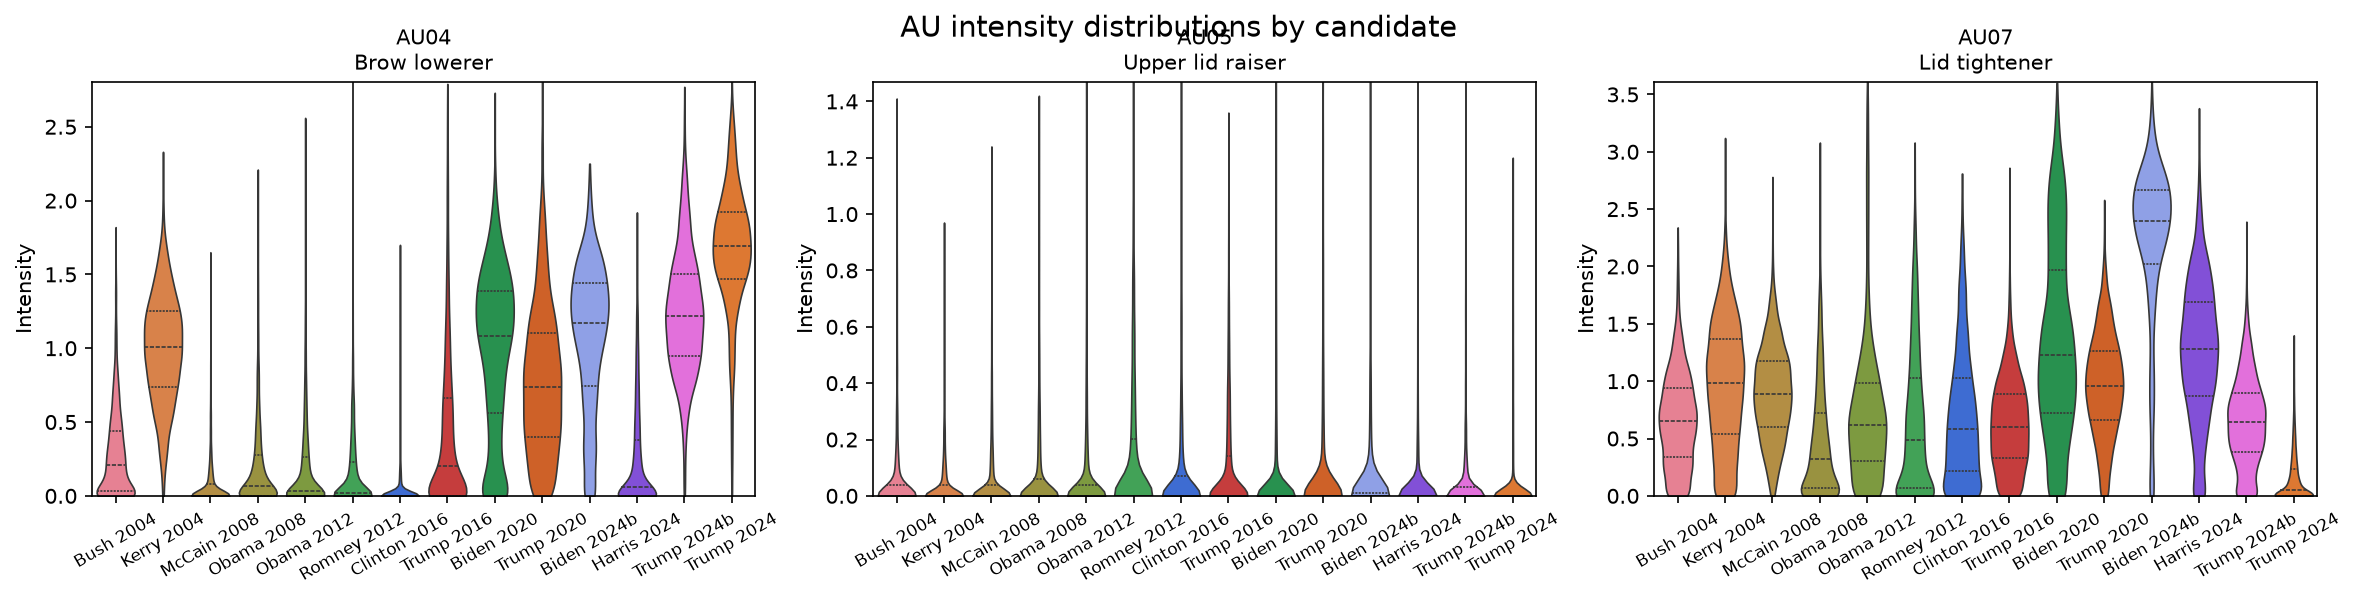
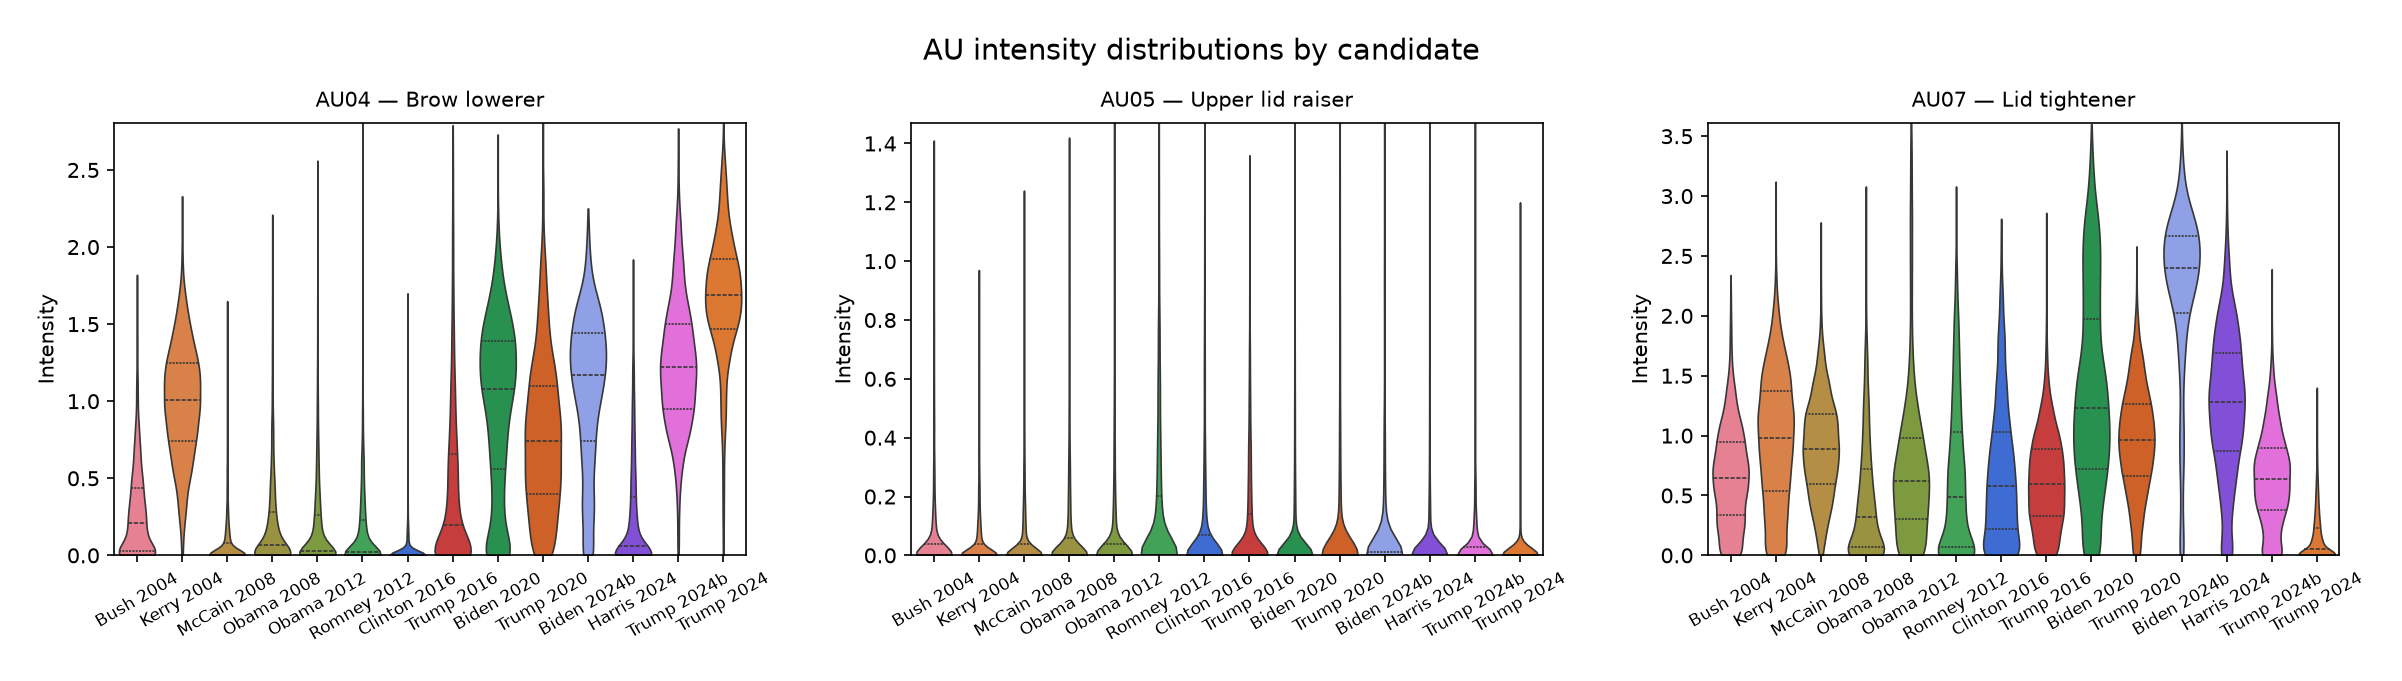
charttttt

diff --git a/plot_au_comparison.py b/plot_au_comparison.py
@@ -170,11 +170,106 @@ def build_violin_long_frame(
 
 
 def au_panel_label(au: str) -> str:
+    # Single-line titles avoid colliding with the figure title.
     if au in ANGER_LABELS:
-        return f"{au}\n{ANGER_LABELS[au]}"
+        return f"{au} — {ANGER_LABELS[au]}"
     if au in EXTRA_LABELS:
-        return f"{au}\n{EXTRA_LABELS[au]}"
+        return f"{au} — {EXTRA_LABELS[au]}"
     return au
+
+
+def build_au_summary_table(
+    frame_data: dict[str, pd.DataFrame],
+    aus: tuple[str, ...] = ANGER_AUS,
+) -> pd.DataFrame:
+    """Mean / SD / n frames for each candidate × AU (spreadsheet-ready)."""
+    rows: list[dict[str, object]] = []
+    for label, df in frame_data.items():
+        row: dict[str, object] = {"candidate": label, "n_frames": len(df)}
+        for au in aus:
+            col = f"{au}_r"
+            if col not in df.columns:
+                row[f"{au}_mean"] = float("nan")
+                row[f"{au}_sd"] = float("nan")
+                continue
+            series = df[col]
+            row[f"{au}_mean"] = float(series.mean())
+            row[f"{au}_sd"] = float(series.std(ddof=1)) if len(series) > 1 else 0.0
+        rows.append(row)
+    return pd.DataFrame.from_records(rows)
+
+
+def export_au_spreadsheet(summary: pd.DataFrame, output_path: Path) -> Path:
+    """Write AU4/5/7 summary as .xlsx (falls back to .csv if openpyxl missing)."""
+    output_path.parent.mkdir(parents=True, exist_ok=True)
+    try:
+        summary.to_excel(output_path, index=False, sheet_name="AU4_5_7")
+        return output_path
+    except ImportError:
+        csv_path = output_path.with_suffix(".csv")
+        summary.to_csv(csv_path, index=False)
+        return csv_path
+
+
+def plot_au_summary_table(summary: pd.DataFrame, output_path: Path) -> None:
+    """Render AU4/5/7 means (± SD) as a table image."""
+    display = pd.DataFrame(
+        {
+            "Candidate": summary["candidate"],
+            "n": summary["n_frames"].map(lambda n: f"{int(n):,}"),
+            "AU04": [
+                f"{m:.3f} ± {s:.3f}"
+                for m, s in zip(summary["AU04_mean"], summary["AU04_sd"])
+            ],
+            "AU05": [
+                f"{m:.3f} ± {s:.3f}"
+                for m, s in zip(summary["AU05_mean"], summary["AU05_sd"])
+            ],
+            "AU07": [
+                f"{m:.3f} ± {s:.3f}"
+                for m, s in zip(summary["AU07_mean"], summary["AU07_sd"])
+            ],
+        }
+    )
+
+    n_rows = len(display)
+    fig_h = max(3.2, 0.42 * n_rows + 1.4)
+    fig, ax = plt.subplots(figsize=(10.5, fig_h))
+    ax.axis("off")
+    ax.set_title(
+        "Mean AU intensity (± SD) — AU04 / AU05 / AU07",
+        fontsize=13,
+        pad=12,
+        fontweight="bold",
+    )
+
+    table = ax.table(
+        cellText=display.values.tolist(),
+        colLabels=list(display.columns),
+        loc="center",
+        cellLoc="center",
+        colLoc="center",
+    )
+    table.auto_set_font_size(False)
+    table.set_fontsize(9)
+    table.scale(1.0, 1.45)
+
+    for (row, col), cell in table.get_celld().items():
+        cell.set_edgecolor("#d4d4d8")
+        cell.set_linewidth(0.6)
+        if row == 0:
+            cell.set_facecolor("#27272a")
+            cell.set_text_props(color="white", fontweight="bold")
+            cell.set_height(0.08)
+        else:
+            cell.set_facecolor("#fafafa" if row % 2 else "white")
+        if col == 0:
+            cell.set_text_props(ha="left")
+            cell.PAD = 0.04
+
+    output_path.parent.mkdir(parents=True, exist_ok=True)
+    fig.savefig(output_path, dpi=180, bbox_inches="tight", pad_inches=0.25)
+    plt.close(fig)
 
 
 def plot_violins(
@@ -191,7 +286,12 @@ def plot_violins(
 
     ncols = min(3, len(aus))
     nrows = int(np.ceil(len(aus) / ncols))
-    fig, axes = plt.subplots(nrows, ncols, figsize=(5.2 * ncols, 3.8 * nrows), constrained_layout=True)
+    fig, axes = plt.subplots(
+        nrows,
+        ncols,
+        figsize=(5.2 * ncols, 4.2 * nrows),
+        layout="constrained",
+    )
     axes_flat = np.atleast_1d(axes).flatten()
 
     for ax, au in zip(axes_flat, aus):
@@ -209,7 +309,7 @@ def plot_violins(
             ax=ax,
             legend=False,
         )
-        ax.set_title(au_panel_label(au), fontsize=10)
+        ax.set_title(au_panel_label(au), fontsize=10, pad=8)
         ax.set_xlabel("")
         ax.set_ylabel("Intensity")
         ax.set_ylim(0, min(5.0, panel["intensity"].quantile(0.995) * 1.15 + 0.1))
@@ -218,9 +318,10 @@ def plot_violins(
     for ax in axes_flat[len(aus) :]:
         ax.axis("off")
 
-    fig.suptitle("AU intensity distributions by candidate", fontsize=14, y=1.01)
+    fig.suptitle("AU intensity distributions by candidate", fontsize=14)
+    fig.set_constrained_layout_pads(w_pad=0.04, h_pad=0.08, hspace=0.12, wspace=0.08)
     output_path.parent.mkdir(parents=True, exist_ok=True)
-    fig.savefig(output_path, dpi=150, bbox_inches="tight")
+    fig.savefig(output_path, dpi=150, bbox_inches="tight", pad_inches=0.25)
     plt.close(fig)
 
 
@@ -263,6 +364,11 @@ def run_comparison(
     plot_heatmap(anger_matrix, output_dir / "au_heatmap.png")
     anger_matrix.to_csv(output_dir / "au_heatmap_data.csv")
 
+    summary = build_au_summary_table(frame_data, ANGER_AUS)
+    summary_path = export_au_spreadsheet(summary, output_dir / "au4_5_7_summary.xlsx")
+    summary.to_csv(output_dir / "au4_5_7_summary.csv", index=False)
+    plot_au_summary_table(summary, output_dir / "au4_5_7_summary.png")
+
     violin_aus = ANGER_AUS
     long_df = build_violin_long_frame(frame_data, violin_aus)
     candidate_order = [label for label, _ in candidates]
@@ -270,6 +376,9 @@ def run_comparison(
 
     print(f"Wrote {output_dir / 'au_heatmap.png'}")
     print(f"Wrote {output_dir / 'au_violins.png'}")
+    print(f"Wrote {output_dir / 'au4_5_7_summary.png'}")
+    print(f"Wrote {summary_path}")
+    print(f"Wrote {output_dir / 'au4_5_7_summary.csv'}")
 
 
 def main() -> None: